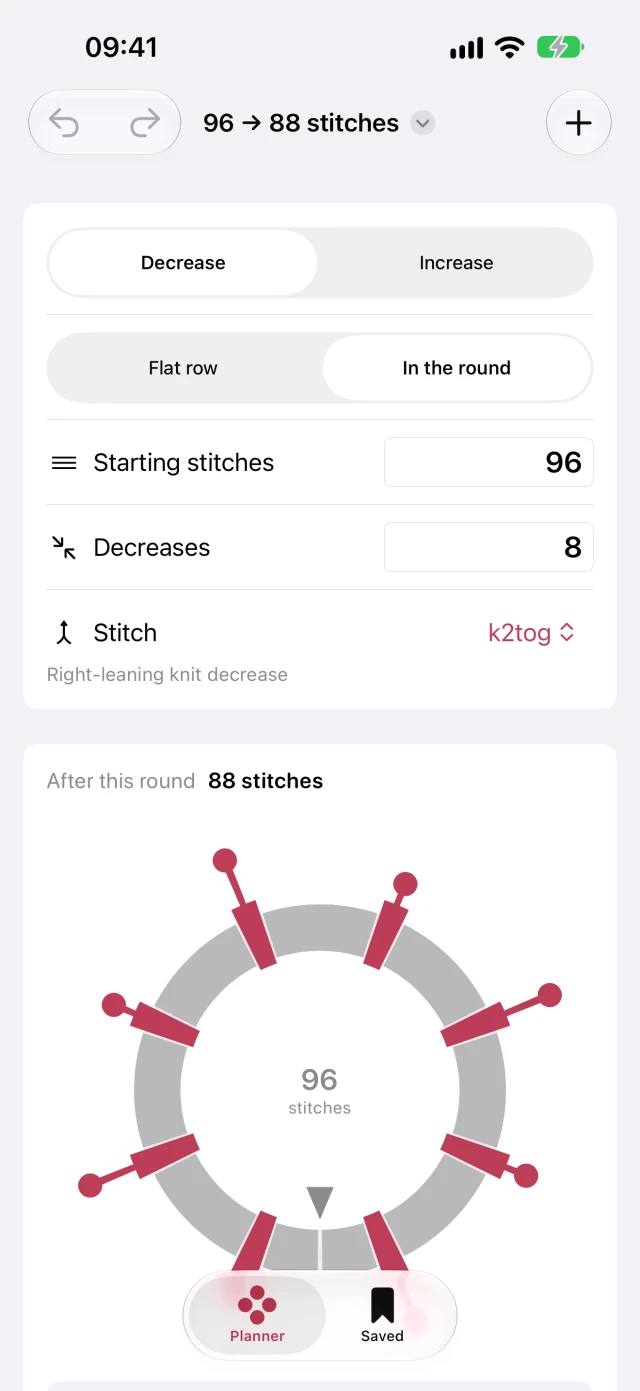
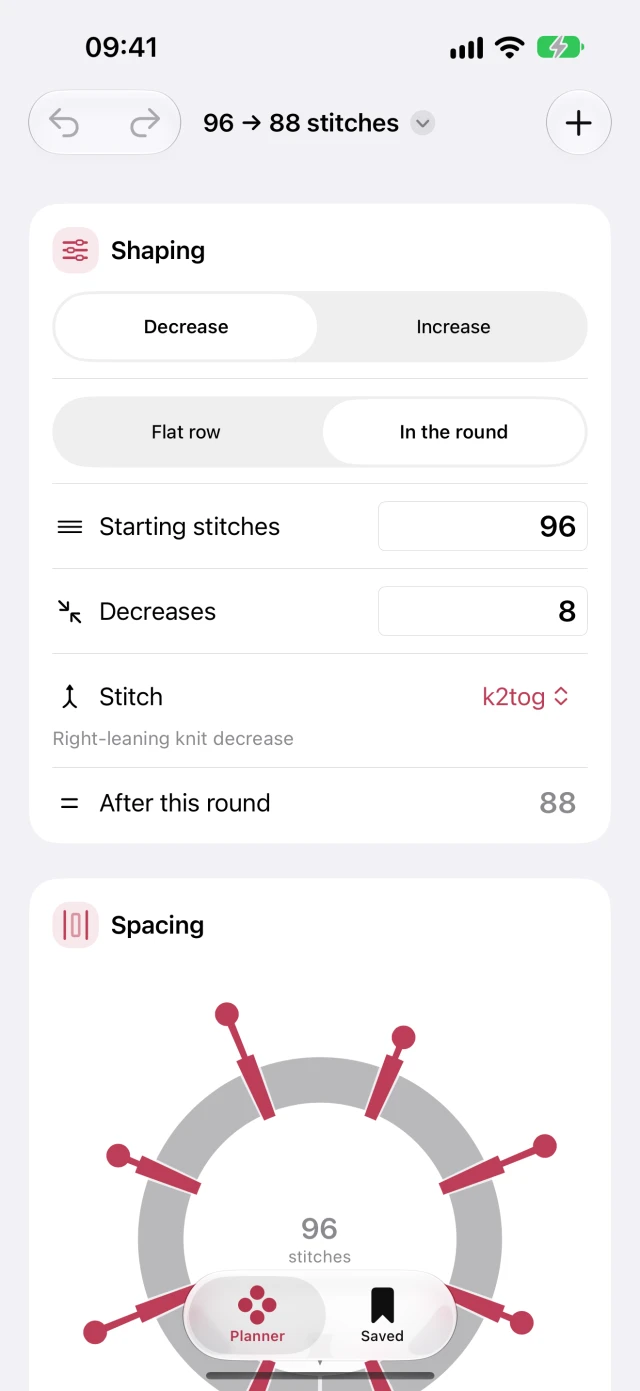
feat(site): refresh screenshots and copy for stitches e9b2542
The app changed in ../Stitches commits a4fa7d4 to e9b2542. It added
"Shaping" and "Spacing" card headings, an "After this row" result
under the counts, marks of one width, "Step by Step" casing and a
"Keep This Plan" card. All six screenshots were converted again from
the new raw captures so the page matches the app. The decrease and
pattern alt text now describe what those captures show.

The app also added VoiceOver announcements when the counts won't
work, so the accessibility card now mentions them. Those commits moved
the cited source lines, so every row of the README evidence table was
re-read against e9b2542 and its line references updated. The page was
also rebuilt and checked again in WebKit at the three reference sizes.

diff --git a/docs/index.html b/docs/index.html
@@ -148,7 +148,7 @@
                 src="/shot-decreases.webp"
                 width="640"
                 height="1391"
-                alt="A flat row of 60 stitches with five k2tog decreases and half edges, going down to 55 stitches, with the decreases spaced evenly around the diagram."
+                alt="The Shaping card set to a flat row of 60 stitches with five k2tog decreases and half edges, showing 55 stitches after this row, with the decreases spaced evenly on the diagram below."
                 loading="lazy"
                 decoding="async"
               />
@@ -203,7 +203,7 @@
                 src="/shot-pattern.webp"
                 width="640"
                 height="1391"
-                alt="The written instruction for the 60 to 55 stitch row, “Decrease row (RS): K5, k2tog, [k10, k2tog] 4 times, k5 (55 sts),” with Step by step and Share buttons below."
+                alt="The Instructions card with the written row for 60 to 55 stitches, “Decrease row (RS): K5, k2tog, [k10, k2tog] 4 times, k5 (55 sts),” and Step by Step and Share buttons below it, followed by a Save Plan button."
                 loading="lazy"
                 decoding="async"
               />
@@ -274,8 +274,8 @@
               Drag a handle on the diagram, or tap it and nudge it with the
               arrow buttons. Tap a gap to see its count. VoiceOver reads out
               every gap and handle, says when the spacing is out of balance, and
-              can move or lock any increase or decrease. The text follows your
-              device’s text size.
+              can move or lock any increase or decrease. If the counts won’t
+              work, VoiceOver says so. The text follows your device’s text size.
             </p>
           </li>
           <li class="card">

diff --git a/index.html b/index.html
@@ -148,7 +148,7 @@
                 src="/shot-decreases.webp"
                 width="640"
                 height="1391"
-                alt="A flat row of 60 stitches with five k2tog decreases and half edges, going down to 55 stitches, with the decreases spaced evenly around the diagram."
+                alt="The Shaping card set to a flat row of 60 stitches with five k2tog decreases and half edges, showing 55 stitches after this row, with the decreases spaced evenly on the diagram below."
                 loading="lazy"
                 decoding="async"
               />
@@ -203,7 +203,7 @@
                 src="/shot-pattern.webp"
                 width="640"
                 height="1391"
-                alt="The written instruction for the 60 to 55 stitch row, “Decrease row (RS): K5, k2tog, [k10, k2tog] 4 times, k5 (55 sts),” with Step by step and Share buttons below."
+                alt="The Instructions card with the written row for 60 to 55 stitches, “Decrease row (RS): K5, k2tog, [k10, k2tog] 4 times, k5 (55 sts),” and Step by Step and Share buttons below it, followed by a Save Plan button."
                 loading="lazy"
                 decoding="async"
               />
@@ -274,8 +274,8 @@
               Drag a handle on the diagram, or tap it and nudge it with the
               arrow buttons. Tap a gap to see its count. VoiceOver reads out
               every gap and handle, says when the spacing is out of balance, and
-              can move or lock any increase or decrease. The text follows your
-              device’s text size.
+              can move or lock any increase or decrease. If the counts won’t
+              work, VoiceOver says so. The text follows your device’s text size.
             </p>
           </li>
           <li class="card">

diff --git a/README.md b/README.md
@@ -15,30 +15,31 @@ The social preview image is generated from the site icon and headline with `sh s
 
 ## Content checks
 
-The copy and privacy policy were checked against the Stitches app on 23 September 2026, and the copy again on 24 and 25 September 2026. The 25 September check followed the app changes in `../Stitches` commits `5369bad` to `a3bdd7c`: gap dragging was removed, points can be locked and the rest rebalanced, spacing that doesn't mirror is marked orange, a selection panel replaced the counts drawn inside the ring, and saved plans open straight in the planner. The round diagram can be turned so the marker sits top, bottom, left or right, but that is a display preference only (`../Stitches/Stitches/Views/Planner/Track/PlanTrackView.swift:42-44`) and does not change the written round, so the page does not claim you can move the beginning of the round. Paths below are relative to the site directory.
+The copy and privacy policy were checked against the Stitches app on 23 September 2026, and the copy again on 24, 25 and 27 September 2026. The 25 September check followed the app changes in `../Stitches` commits `5369bad` to `a3bdd7c`: gap dragging was removed, points can be locked and the rest rebalanced, spacing that doesn't mirror is marked orange, a selection panel replaced the counts drawn inside the ring, and saved plans open straight in the planner. The 27 September check followed commits `a4fa7d4` to `e9b2542`. None of them made a claim on the page wrong. They added "Shaping" and "Spacing" card headings, a result row under the counts, marks of one width and the "Step by Step" casing, which the new screenshots show. They also added VoiceOver announcements of count errors, now mentioned in the accessibility card. The changes moved the cited lines, so every row of the table below was re-read against `e9b2542`. The round diagram can be turned so the marker sits top, bottom, left or right, but that is a display preference only (`../Stitches/Stitches/Views/Planner/Track/PlanTrackView.swift:42-44`) and does not change the written round, so the page does not claim you can move the beginning of the round. Paths below are relative to the site directory.
 
-| Page claim                                                                       | App evidence                                                                                                                                                                                                       |
-| -------------------------------------------------------------------------------- | ------------------------------------------------------------------------------------------------------------------------------------------------------------------------------------------------------------------ |
-| Increases and decreases, with three decrease and six increase stitches           | `../Stitches/Stitches/Models/ShapingTechnique.swift:12-32`, abbreviations at `:79-98`                                                                                                                              |
-| M1 and yarn over sit between stitches; kfb and pfb consume one                   | `../Stitches/Stitches/Models/ShapingTechnique.swift:36-50`                                                                                                                                                         |
-| Flat row and round support                                                       | `../Stitches/Stitches/Models/WorkingStyle.swift:3-29`                                                                                                                                                              |
-| Half-width or equal row edge gaps                                                | `../Stitches/Stitches/Models/EdgeSpacing.swift:3-34`                                                                                                                                                               |
-| Moving a point changes only the two gaps beside it; gaps are selected, not moved | `../Stitches/Stitches/Models/ShapingShift.swift:3-8,89-106`; `../Stitches/Stitches/Views/Planner/Track/TrackInteraction.swift:12-13,160-168`                                                                       |
-| Tap a handle and nudge it with the arrow buttons; tap a gap to see its count     | `../Stitches/Stitches/Models/TrackFocus.swift:1-6,18-19`; `../Stitches/Stitches/Views/Planner/Track/TrackSelectionPanel.swift:3-10,295-296`                                                                        |
-| Lock a point in place and rebalance the rest around it, with undo                | `../Stitches/Stitches/Models/ShapingLocks.swift:3-9`; `../Stitches/Stitches/Services/ShapingRebalancer.swift:3-8`; `../Stitches/Stitches/ViewModels/PlannerSession.swift:362-381`                                  |
-| Orange shows where one side no longer mirrors the other                          | `../Stitches/Stitches/Models/TrackBalance.swift:1-6`; legend at `../Stitches/Stitches/Views/Planner/Track/TrackInstructionLegend.swift:31`                                                                         |
-| Purl techniques purl the plain stitches                                          | `../Stitches/Stitches/Models/ShapingTechnique.swift:66-75`                                                                                                                                                         |
-| Equal edges suit an open front or a picked-up band                               | `../Stitches/Stitches/Models/EdgeSpacing.swift:11-13`                                                                                                                                                              |
-| A round is mirrored about its marker when the counts allow                       | `../Stitches/Stitches/Services/ShapingPlanner.swift:176-231` (otherwise mirrored half a stitch past the marker)                                                                                                    |
-| Example row "Decrease row (RS): K5, k2tog, [k10, k2tog] 4 times, k5 (55 sts)."   | `../Stitches/StitchesTests/PatternFormatterTests.swift:15`; shown in `public/shot-pattern.webp`                                                                                                                    |
-| Brackets, parentheses and asterisks                                              | `../Stitches/Stitches/Models/RepeatNotationStyle.swift:3-31`                                                                                                                                                       |
-| Step-by-step instructions and sharing                                            | `../Stitches/Stitches/Views/Planner/Pattern/PatternCard.swift:68-77`, `../Stitches/Stitches/Views/Planner/Pattern/InstructionStepsView.swift:12-30`                                                                |
-| A saved plan opens straight in the planner and keeps every change                | `../Stitches/Stitches/Views/Library/SavedPlansView.swift:44,97`; `../Stitches/Stitches/Views/Planner/PlannerScreen.swift:8-9`; locks saved at `../Stitches/Stitches/Models/SavedPlan.swift:20`                     |
-| Saved plans sync through the user's private iCloud database                      | `../Stitches/Stitches/Services/StoreBootstrap.swift:74-78`; app description at `../Stitches/ASO.md:267,273`                                                                                                        |
-| VoiceOver reads gaps and handles, flags imbalance, moves and locks handles       | `../Stitches/Stitches/Views/Planner/Track/Accessibility/TrackAccessibilityLayer.swift:3-7,30-70`; `../Stitches/Stitches/Views/Planner/Track/Accessibility/TrackShapingAccessibilityElement.swift:3-11,40-44,64-71` |
-| No app account, analytics, ads, tracking or third-party SDKs                     | `../Stitches/Documentation/ReleaseVerification.md:171-172`; `../Stitches/ASO.md:272-273`                                                                                                                           |
-| iOS 18 and iPhone/iPad support                                                   | `../Stitches/Stitches.xcodeproj/project.pbxproj:279,293,317,331`                                                                                                                                                   |
-| One-time purchase plan                                                           | `../Stitches/ASO.md:776`                                                                                                                                                                                           |
+| Page claim                                                                            | App evidence                                                                                                                                                                                                               |
+| ------------------------------------------------------------------------------------- | -------------------------------------------------------------------------------------------------------------------------------------------------------------------------------------------------------------------------- |
+| Increases and decreases, with three decrease and six increase stitches                | `../Stitches/Stitches/Models/ShapingTechnique.swift:13-35`, abbreviations at `:78-101`                                                                                                                                     |
+| M1 and yarn over sit between stitches; kfb and pfb consume one                        | `../Stitches/Stitches/Models/ShapingTechnique.swift:37-52`                                                                                                                                                                 |
+| Flat row and round support                                                            | `../Stitches/Stitches/Models/WorkingStyle.swift:3-24`                                                                                                                                                                      |
+| Half-width or equal row edge gaps                                                     | `../Stitches/Stitches/Models/EdgeSpacing.swift:3-40`                                                                                                                                                                       |
+| Moving a point changes only the two gaps beside it; gaps are selected, not moved      | `../Stitches/Stitches/Models/ShapingShift.swift:3-8,89-106`; `../Stitches/Stitches/Views/Planner/Track/TrackInteraction.swift:12-13,160-168`                                                                               |
+| Drag a handle; tap it and nudge it with the arrow buttons; tap a gap to see its count | `../Stitches/Stitches/Views/Planner/Track/TrackInstructionLegend.swift:51-64`; `../Stitches/Stitches/Models/TrackFocus.swift:1-8,18-25`; `../Stitches/Stitches/Views/Planner/Track/TrackSelectionPanel.swift:3-10,256-261` |
+| Lock a point in place and rebalance the rest around it, with undo                     | `../Stitches/Stitches/Models/ShapingLocks.swift:3-9`; `../Stitches/Stitches/Services/ShapingRebalancer.swift:3-8`; `../Stitches/Stitches/ViewModels/PlannerSession.swift:447-465`                                          |
+| Orange shows where one side no longer mirrors the other                               | `../Stitches/Stitches/Models/TrackBalance.swift:1-6`; legend at `../Stitches/Stitches/Views/Planner/Track/TrackInstructionLegend.swift:31`                                                                                 |
+| Purl techniques purl the plain stitches                                               | `../Stitches/Stitches/Models/ShapingTechnique.swift:67-76`                                                                                                                                                                 |
+| Equal edges suit an open front or a picked-up band                                    | `../Stitches/Stitches/Models/EdgeSpacing.swift:16-18`                                                                                                                                                                      |
+| A round is mirrored about its marker when the counts allow                            | `../Stitches/Stitches/Services/ShapingPlanner.swift:186-243` (otherwise mirrored half a stitch past the marker)                                                                                                            |
+| Example row "Decrease row (RS): K5, k2tog, [k10, k2tog] 4 times, k5 (55 sts)."        | `../Stitches/StitchesTests/PatternFormatterTests.swift:15`; shown in `public/shot-pattern.webp`                                                                                                                            |
+| Brackets, parentheses and asterisks                                                   | `../Stitches/Stitches/Models/RepeatNotationStyle.swift:3-31`                                                                                                                                                               |
+| Step-by-step instructions and sharing                                                 | `../Stitches/Stitches/Views/Planner/Pattern/PatternCard.swift:64-79`, `../Stitches/Stitches/Views/Planner/Pattern/InstructionStepsView.swift:3-31`                                                                         |
+| A saved plan opens straight in the planner and keeps every change                     | `../Stitches/Stitches/Views/Library/SavedPlansView.swift:44,104-111`; `../Stitches/Stitches/Views/Planner/PlannerScreen.swift:4-12`; locks saved at `../Stitches/Stitches/Models/SavedPlan.swift:57-61`                    |
+| Saved plans sync through the user's private iCloud database                           | `../Stitches/Stitches/Services/StoreBootstrap.swift:59,74-77`; app description at `../Stitches/ASO.md:267,273`                                                                                                             |
+| VoiceOver reads gaps and handles, flags imbalance, moves and locks handles            | `../Stitches/Stitches/Views/Planner/Track/Accessibility/TrackAccessibilityLayer.swift:3-7,30-56`; `../Stitches/Stitches/Views/Planner/Track/Accessibility/TrackShapingAccessibilityElement.swift:3-11,38-42,65-76`         |
+| VoiceOver says when the counts won't work                                             | `../Stitches/Stitches/Views/Planner/ValidationMessage.swift:38-56`                                                                                                                                                         |
+| No app account, analytics, ads, tracking or third-party SDKs                          | `../Stitches/Documentation/ReleaseVerification.md:171-172`; `../Stitches/ASO.md:272-273`                                                                                                                                   |
+| iOS 18 and iPhone/iPad support                                                        | `../Stitches/Stitches.xcodeproj/project.pbxproj:279,293,317,331`                                                                                                                                                           |
+| One-time purchase plan                                                                | `../Stitches/ASO.md:780`                                                                                                                                                                                                   |
 
 Apple's [CloudKit private database documentation](https://developer.apple.com/documentation/cloudkit/ckcontainer/privateclouddatabase) confirms that user records are not visible in the developer portal. Apple also says [deleting an app does not remove its iCloud data](https://support.apple.com/guide/iphone/remove-or-delete-apps-iph248b543ca/ios), and describes how to [review and delete third-party app data in iCloud](https://support.apple.com/guide/icloud/keep-third-party-app-data-up-to-date-mm62d92d6b3e/icloud). These are the basis for the policy's iCloud and deletion wording.
 
@@ -48,9 +49,11 @@ The screenshots were regenerated on 24 September 2026 with `swift scripts/genera
 
 On 25 September 2026, `shot-decreases`, `shot-rearrange`, `shot-increases`, `shot-round` and `shot-pattern` were converted again from the raw captures committed in `../Stitches` at `a3bdd7c` (the ring no longer draws gap counts, and the selection panel, Rebalance Spacing button and orange balance key are new). `shot-rearrange` now shows the first decrease stepped two stitches along with the panel's buttons (7 before, 8 after), not a gap moved by hand. The raw library capture had not changed since the 24 September run, and re-encoding it produced a byte-identical `shot-library.webp`, so it was kept. Conversion: `cwebp -q 90 -resize 640 1391 <raw>.png -o public/<name>.webp`.
 
+On 27 September 2026, all six screenshots were converted again from the raw captures committed in `../Stitches` at `e9b2542`. The captures now show the "Shaping" and "Spacing" card headings, the "After this row" result under the counts, marks of one width, and a pattern capture with the "Step by Step" button and the "Keep This Plan" card. The raw library capture changed as well, so `shot-library.webp` was re-encoded too. The same `cwebp` command was used. The decrease and pattern alt text now describe what those captures show.
+
 ## Site verification
 
-On 23 September 2026, the page built successfully with Vite 8.2.2 (rebuilt with Vite 8.3.0 on 24 September 2026), matching `package-lock.json`. The built page's local asset paths and section links were checked, and `docs/CNAME` matched the intended domain. WebKit screenshots were inspected at 1440 × 900, 390 × 844 and 320 × 700 CSS pixels. At both phone widths, the document scroll width equaled the viewport width. On 25 September 2026, after the copy and screenshot update, the page was rebuilt with Vite 8.3.0 and checked again in WebKit at the same three sizes: every image loaded, and at every width the document scroll width equaled the viewport width.
+On 23 September 2026, the page built successfully with Vite 8.2.2 (rebuilt with Vite 8.3.0 on 24 September 2026), matching `package-lock.json`. The built page's local asset paths and section links were checked, and `docs/CNAME` matched the intended domain. WebKit screenshots were inspected at 1440 × 900, 390 × 844 and 320 × 700 CSS pixels. At both phone widths, the document scroll width equaled the viewport width. On 25 September 2026, after the copy and screenshot update, the page was rebuilt with Vite 8.3.0 and checked again in WebKit at the same three sizes: every image loaded, and at every width the document scroll width equaled the viewport width. On 27 September 2026, after the screenshot and copy update for `e9b2542`, the page was rebuilt with Vite 8.3.0 and checked again in Playwright's WebKit at the same three sizes. No request failed, every image loaded, and at every width the document scroll width equaled the viewport width.
 
 ## Before launch
 
